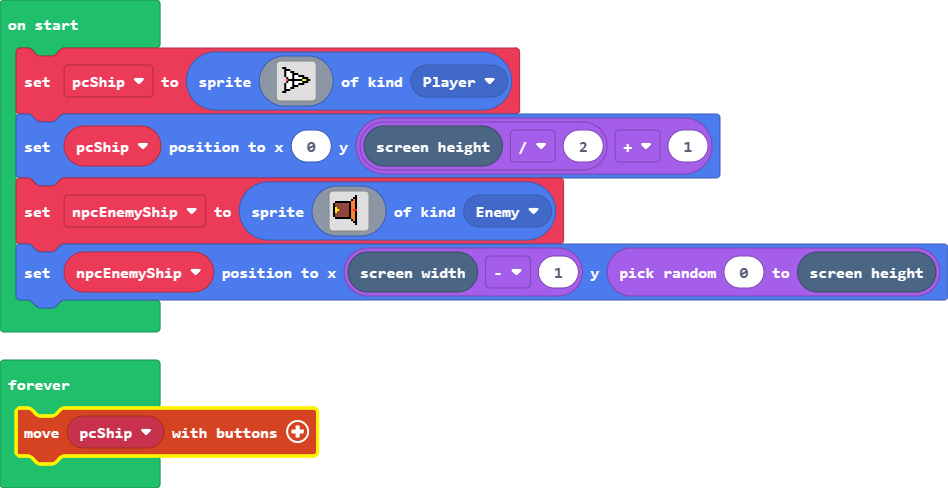
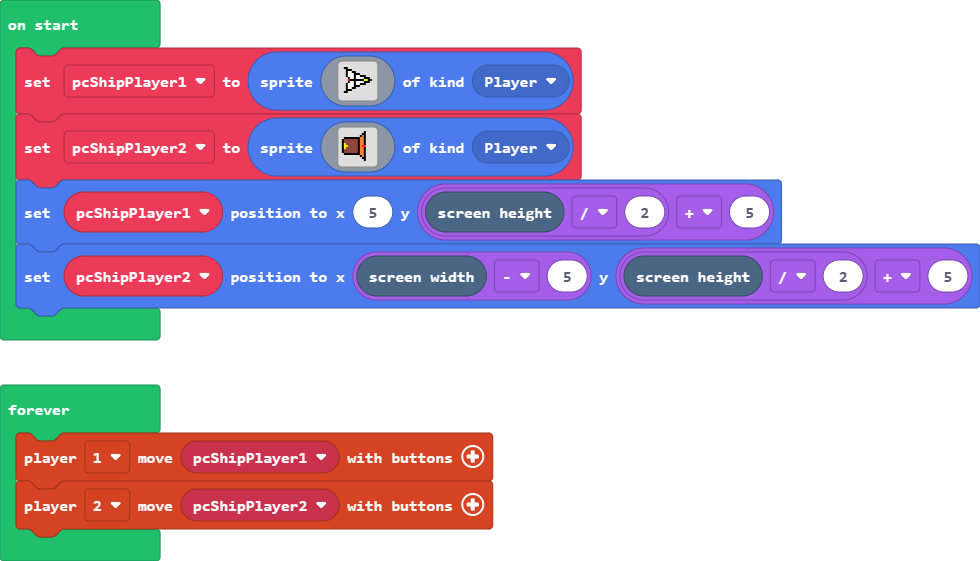
Changed to multiplayer duel

diff --git a/main.ts b/main.ts
@@ -1,7 +1,8 @@
-let pcShip = sprites.create(assets.image`pcShip`, SpriteKind.Player)
-pcShip.setPosition(0, scene.screenHeight() / 2 + 1)
-let npcEnemyShip = sprites.create(assets.image`npcShipBlob`, SpriteKind.Enemy)
-npcEnemyShip.setPosition(scene.screenWidth() - 1, randint(0, scene.screenHeight()))
+let pcShipPlayer1 = sprites.create(assets.image`pcShip`, SpriteKind.Player)
+let pcShipPlayer2 = sprites.create(assets.image`npcShipBlob`, SpriteKind.Player)
+pcShipPlayer1.setPosition(5, scene.screenHeight() / 2 + 5)
+pcShipPlayer2.setPosition(scene.screenWidth() - 5, scene.screenHeight() / 2 + 5)
 forever(function () {
-    controller.moveSprite(pcShip)
+    controller.player1.moveSprite(pcShipPlayer1)
+    controller.player2.moveSprite(pcShipPlayer2)
 })

diff --git a/main.py b/main.py
@@ -1,12 +1,13 @@
-pcShip = sprites.create(assets.image("""
+pcShipPlayer1 = sprites.create(assets.image("""
     pcShip
 """), SpriteKind.player)
-pcShip.set_position(0, (scene.screen_height() / 2 )+1)
-npcEnemyShip = sprites.create(assets.image("""
+pcShipPlayer2 = sprites.create(assets.image("""
     npcShipBlob
-"""), SpriteKind.enemy)
-npcEnemyShip.set_position(scene.screen_width()-1, randint(0, scene.screen_height()))
+"""), SpriteKind.player)
+pcShipPlayer1.set_position(0, scene.screen_height() / 2 + 5)
+pcShipPlayer2.set_position(scene.screen_width() - 5, scene.screen_height() / 2 + 5)
 
 def on_forever():
-    controller.move_sprite(pcShip)
+    controller.player1.move_sprite(pcShipPlayer2)
+    controller.player2.move_sprite(pcShipPlayer2)
 forever(on_forever)
